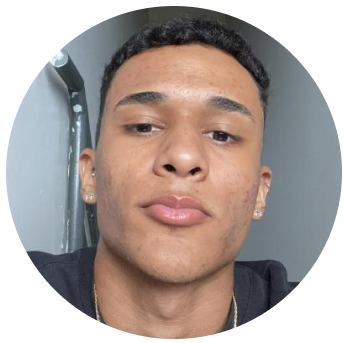
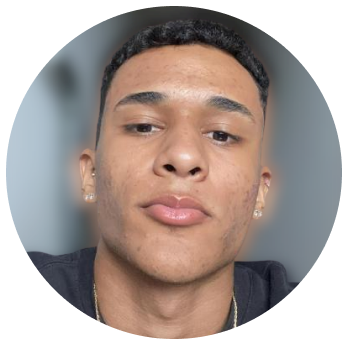
updating attributes with javascript

diff --git a/script.js b/script.js
@@ -1,10 +1,12 @@
 function toggleMode() {
     const html = document.documentElement
-
-    // if(html.classList.contains('light')) {
-    //     html.classList.remove('light')
-    // } else {
-    //     html.classList.add('light')
-    
     html.classList.toggle("light")
+
+    const img = document.querySelector("#profile img")
+
+    if(html.classList.contains('light')) {
+        img.setAttribute('src', './assets/avatar-light.png')
+    } else {
+        img.setAttribute('src', './assets/avatar.png')
+    }
 }
